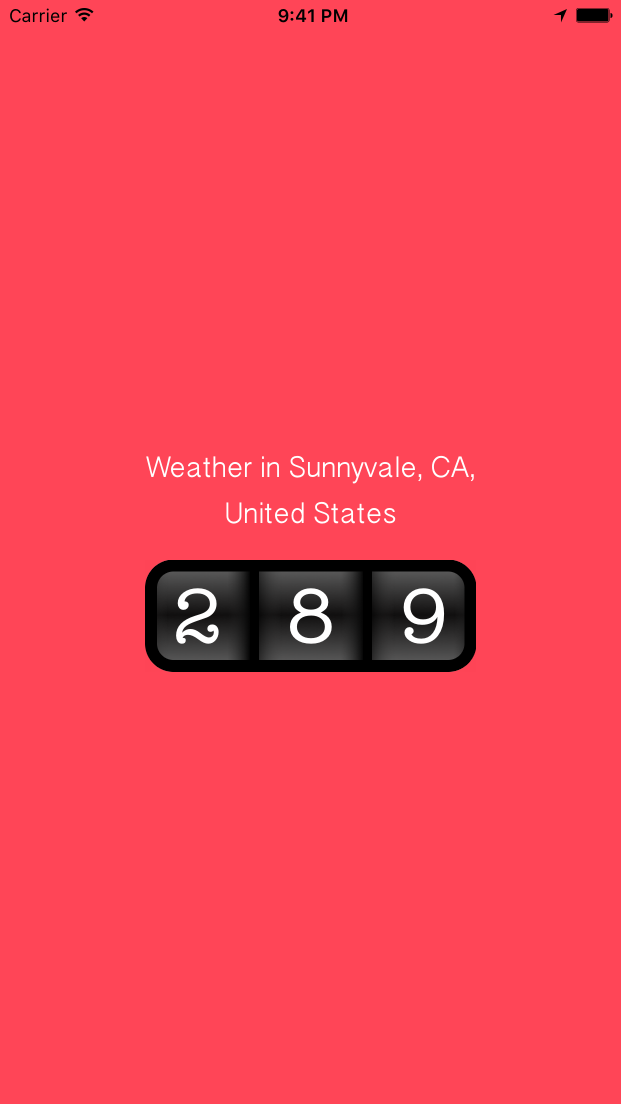
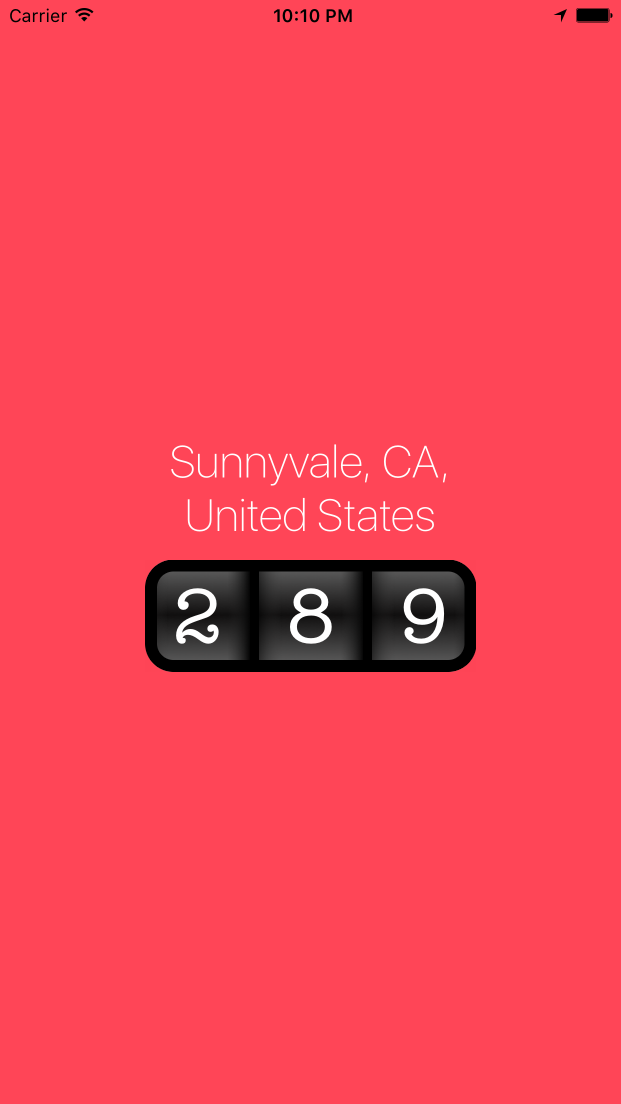
updated

Changed region(s): [[0.2448, 0.4004, 0.7649, 0.4928], [0.4283, 0.0, 0.5813, 0.0308]]

diff --git a/counter/ViewController.swift b/counter/ViewController.swift
@@ -78,7 +78,7 @@ class ViewController: UIViewController, CLLocationManagerDelegate , UICollection
         
        location.getLocationName {[weak self] (locationName) in
             
-            self?.label.text = "Weather in \(locationName)"
+            self?.label.text = "\(locationName)"
         }
         
     }
